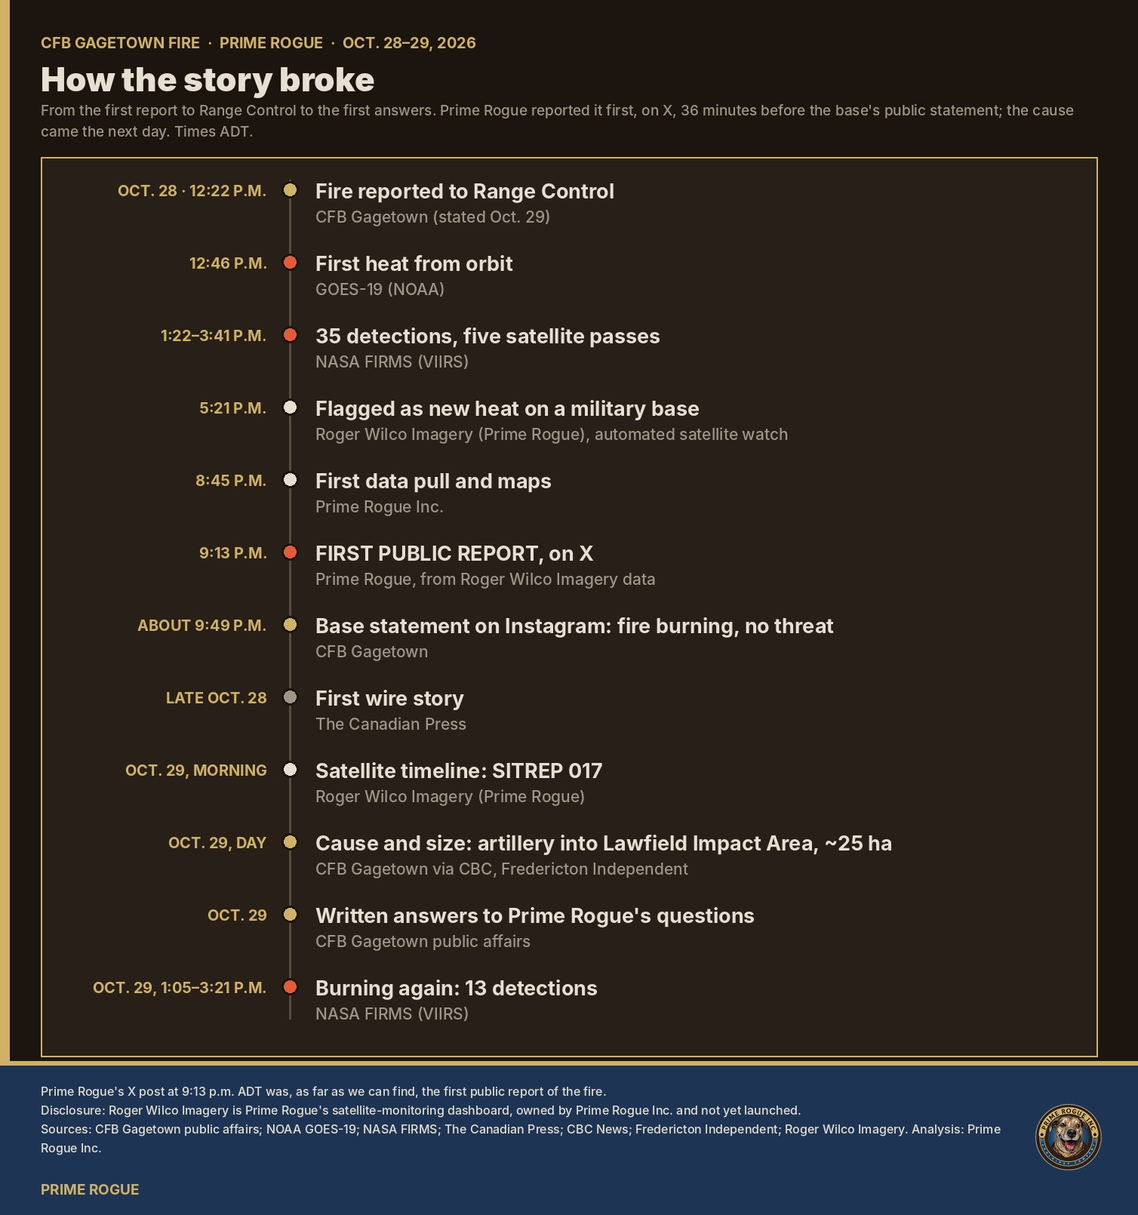
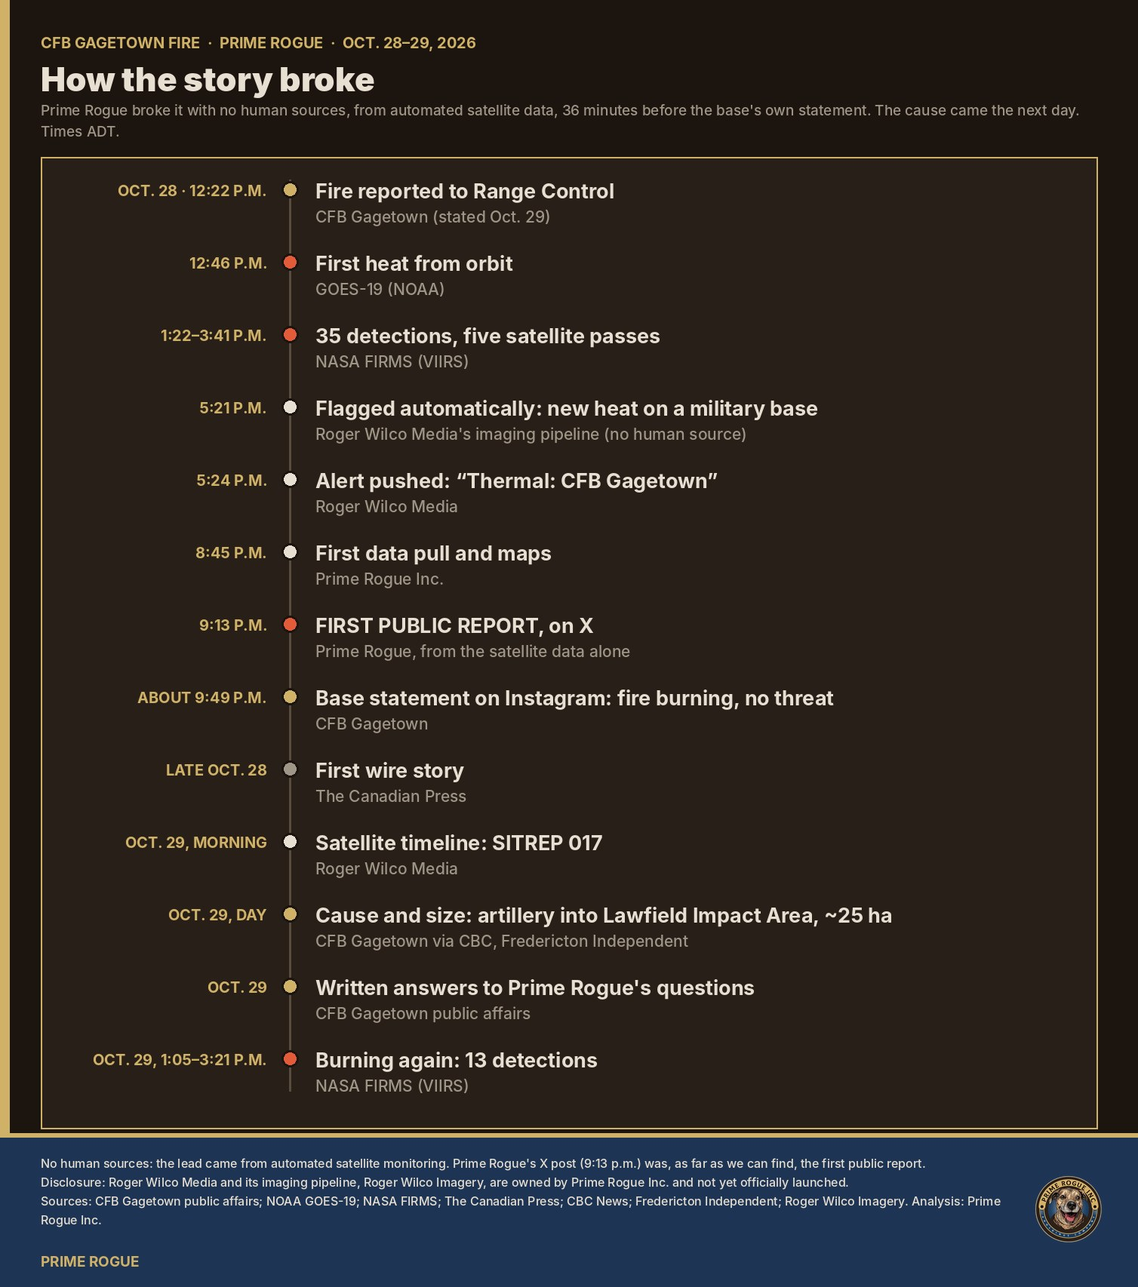
No human sources: automated pipeline flagged at 5:21 and pushed the alert at 5:24 p.m.; cite Roger Wilco Media (not officially launched, generating leads); graphics, tweets, HTML updated
Claude-Session: https://claude.ai/code/session_01Bh8AJVAeFD1nxJnnjXDLsH

Changed region(s): [[0.0, 0.0311, 1.0, 0.9938], [0.8103, 0.9317, 0.8415, 0.9627]]

diff --git a/article/cfb-gagetown-fire-artillery-lawfield-impact-area.html b/article/cfb-gagetown-fire-artillery-lawfield-impact-area.html
@@ -2,7 +2,10 @@
 <p><em>By Kevin J.S. Duska Jr. · Prime Rogue Inc. · Oct. 30, 2026</em></p>
 <p><strong>A fire started by artillery shooting into the Lawfield Impact Area burned through part of the CFB Gagetown training area in New Brunswick on Oct. 28 and was still burning the next afternoon. The base says it was reported to Range Control at 12:22 p.m. ADT, during a Royal Canadian Artillery School course firing the 105 mm LG1 howitzer, under a Moderate fire-danger rating. No one was hurt. Public satellite data shows how it unfolded, hour by hour.</strong></p>
 <p>It came eleven days after the fire at CFB Wainwright, Alta., where four soldiers died and 39 were injured on Oct. 17.</p>
-<p>Prime Rogue <a href="https://x.com/KevinDuska/status/2115597849425793397">first reported the fire on X</a> at 9:13 p.m. ADT on Oct. 28. That was 36 minutes before the base's public statement, using data from Roger Wilco Imagery, the satellite-monitoring dashboard Prime Rogue is building.</p>
+<p><strong>Prime Rogue broke the story without a single human source.</strong> We <a href="https://x.com/KevinDuska/status/2115597849425793397">first reported the fire on X</a> at 9:13 p.m. ADT on Oct. 28. That was 36 minutes before the base's own statement, and ahead of the first wire story.
+- <strong>The tip:</strong> none. The lead came from automated satellite monitoring by <a href="https://rogerwilcomedia.online/">Roger Wilco Media</a>, the open-source intelligence service Prime Rogue owns.
+- <strong>The pipeline:</strong> its imaging system, Roger Wilco Imagery, flagged the fire at 5:21 p.m. as new heat on a military base, and pushed an alert at 5:24 p.m. That was 4 hours 25 minutes before the base said anything.
+- <strong>The status:</strong> Roger Wilco Media hasn't officially launched. It's already generating leads like this one.</p>
 <!-- wp:image {"sizeSlug":"full","linkDestination":"media"} -->
 <figure class="wp-block-image size-full"><img src="/wp-content/uploads/2026/10/01-cfb-gagetown-fire-region.jpg" alt="Satellite map of the lower Saint John River valley showing Fredericton, Oromocto and Gagetown village, with the Oct. 28, 2026 fire marked in the CFB Gagetown training area"/><figcaption class="wp-element-caption">A fire in the CFB Gagetown training area</figcaption></figure>
 <!-- /wp:image -->
@@ -123,11 +126,12 @@
 <li><strong>12:22 p.m., Oct. 28:</strong> fire reported to Range Control, per the base.</li>
 <li><strong>12:46 p.m.:</strong> first heat from orbit (GOES-19).</li>
 <li><strong>1:22 p.m.:</strong> first NASA FIRMS (VIIRS) detections.</li>
-<li><strong>5:21 p.m.:</strong> Roger Wilco Imagery, the open-source satellite-monitoring dashboard Prime Rogue owns and is building (not yet launched), flagged the fire automatically as new heat on a military base.</li>
-<li><strong>9:13 p.m.: first public report.</strong> Prime Rogue <a href="https://x.com/KevinDuska/status/2115597849425793397">posted the fire on X</a>, from Roger Wilco Imagery's satellite data. As far as we can find, that was the first public report of the fire.</li>
+<li><strong>5:21 p.m.:</strong> Roger Wilco Media's automated imaging pipeline (Roger Wilco Imagery) flagged the fire as new heat on a military base. No person tipped it; the software did.</li>
+<li><strong>5:24 p.m.:</strong> Roger Wilco Media pushed the alert: "Thermal: 5th Canadian Division Support Base Gagetown."</li>
+<li><strong>9:13 p.m.: first public report.</strong> Prime Rogue <a href="https://x.com/KevinDuska/status/2115597849425793397">posted the fire on X</a> from the satellite data alone. As far as we can find, that was the first public report of the fire, 36 minutes before the base's statement.</li>
 <li><strong>About 9:49 p.m.:</strong> CFB Gagetown posted a statement on Instagram. It said a wildfire was burning in the northeastern sector of the training area, monitored by Wildland Fire Management Services, with no threat to nearby communities, and that training nearby was suspended.</li>
 <li><strong>Late Oct. 28:</strong> <a href="https://www.ctvnews.ca/atlantic/new-brunswick/article/fire-at-new-brunswick-military-base-not-threat-to-public-defence-officials/">The Canadian Press</a> reported the fire, citing defence officials who said it was no threat to the public.</li>
-<li><strong>Morning of Oct. 29:</strong> Roger Wilco Imagery's situation report (<a href="https://rogerwilcomedia.online/report/RWI-SITREP-017.html">SITREP 017</a>) laid out the satellite timeline: GOES-19's first heat, the five passes, the peak and the spread. It flagged that the cause had not been given.</li>
+<li><strong>Morning of Oct. 29:</strong> Roger Wilco Media's situation report (<a href="https://rogerwilcomedia.online/report/RWI-SITREP-017.html">SITREP 017</a>) laid out the satellite timeline: GOES-19's first heat, the five passes, the peak and the spread. It flagged that the cause had not been given.</li>
 <li><strong>Oct. 29, during the day:</strong> the <a href="https://ftonindependent.substack.com/p/wildfire-burning-at-base-gagetown">Fredericton Independent</a> reported the base's statement. The base's afternoon update to reporters gave the cause and the 25-hectare figure (<a href="https://www.cbc.ca/news/canada/new-brunswick/wildfire-base-gagetown-9.7401802">CBC News</a>; <a href="https://ftonindependent.substack.com/p/base-gagetown-wildfire-still-active">Fredericton Independent</a>). Roger Wilco Imagery's <a href="https://rogerwilcomedia.online/report/RWI-SITREP-018.html">SITREP 018</a> followed that night with the second day's detections.</li>
 </ul>
 <p>Reports disagree on the fire's status on Oct. 29. The Canadian Press described it as under control. The base's own answers say it "remains active."</p>
@@ -137,7 +141,7 @@
 <!-- /wp:image -->
 
 <p>Wainwright still hangs over every range fire.
-- The Oct. 17 fire there started on an automatic grenade launcher range, and a wind shift drove it onto soldiers on a nearby range. Roger Wilco Imagery's satellite analysis put the first heat about 70 minutes before the ignition time officials first gave.
+- The Oct. 17 fire there started on an automatic grenade launcher range, and a wind shift drove it onto soldiers on a nearby range. Roger Wilco Media's satellite analysis put the first heat about 70 minutes before the ignition time officials first gave.
 - At Gagetown the picture is different: the fire was in an impact area, no one was in its path, and the base says it was seen and reported almost at once.</p>
 <p>But some of the same questions apply:
 - why live artillery was firing into dry autumn ground under a Moderate rating;
@@ -147,11 +151,11 @@
 <h2>Sources and method</h2>
 <ul>
 <li><strong>Fire detections:</strong> NASA FIRMS (VIIRS on NOAA-21, NOAA-20 and Suomi NPP), near-real-time, Oct. 27–30.</li>
-<li><strong>GOES-19:</strong> the NOAA ABI fire product, via NOAA Open Data on AWS. The five-minute series was assembled by Roger Wilco Imagery.</li>
+<li><strong>GOES-19:</strong> the NOAA ABI fire product, via NOAA Open Data on AWS. The five-minute series was assembled by Roger Wilco Media.</li>
 <li><strong>Imagery:</strong> Sentinel-2, Oct. 27 (contains modified Copernicus Sentinel data [2026]).</li>
 <li><strong>Terrain:</strong> Copernicus DEM GLO-30.</li>
 <li><strong>Fire radiative power</strong> measures heat output, not area burned.</li>
 <li><strong>Raw data and code:</strong> every number above can be checked against the unaltered FIRMS responses, the merged tables and the scripts in Prime Rogue's public repository, <a href="https://github.com/primerogueinc/DND-BASE-FIRES-Beginning-10-28-2026">DND-BASE-FIRES-Beginning-10-28-2026</a>.</li>
-<li><strong>Disclosure:</strong> Roger Wilco Imagery is owned by Prime Rogue Inc. It hasn't launched yet; a preview is at <a href="https://rogerwilcomedia.online/">rogerwilcomedia.online</a>.</li>
+<li><strong>Disclosure:</strong> Roger Wilco Media and its imaging pipeline, Roger Wilco Imagery, are owned by Prime Rogue Inc. They haven't officially launched; a preview is at <a href="https://rogerwilcomedia.online/">rogerwilcomedia.online</a>.</li>
 </ul>
 <p><em>Prime Rogue Inc. is a member of the Canadian Association of Journalists. Corrections: kevin@primerogueinc.com.</em></p>

diff --git a/scripts/build_article_cards_gagetown.py b/scripts/build_article_cards_gagetown.py
@@ -43,7 +43,7 @@ def social():
     d.text((64, 222), "Orbit saw it", font=H(76), fill=GOLD)
     d.text((64, 314), "24 minutes later.", font=H(76), fill=GOLD)
     y = 440
-    for line in g.wrap("Reported to Range Control at 12:22 p.m. on Oct. 28. GOES-19's first heat: 12:46. Still burning the next afternoon.", M(30), 690):
+    for line in g.wrap("No human sources: automated satellite data flagged it, and we reported it 36 minutes before the base did. Still burning the next afternoon.", M(30), 690):
         d.text((64, y), line, font=M(30), fill=MUTED); y += 42
     # mini chart: GOES-19 fire power, 12:00–4:00 p.m.
     goes = g.GOES[g.GOES.satellite.str.startswith("GOES-19") & (g.GOES["product"] == "ABI-L2-FDCC") & (g.GOES.status == "ok")].copy()
@@ -137,7 +137,7 @@ def first_hours():
             "VIIRS passed five times that afternoon. Grey shading: share of the GOES box coded cloud. Times ADT, Oct. 28.",
             ["GOES's first flag (12:46) was a low-probability code; its first measured fire power came at 12:50–12:51 p.m. Gaps between bars are mostly cloud, not the fire stopping.",
              "Base times: CFB Gagetown public affairs, Oct. 29."],
-            "Fire detections: NOAA GOES-19 ABI fire product, CONUS scans (NOAA Open Data on AWS; series by Roger Wilco Imagery) and NASA FIRMS (VIIRS), Oct. 28, 2026. "
+            "Fire detections: NOAA GOES-19 ABI fire product, CONUS scans (NOAA Open Data on AWS; series by Roger Wilco Media) and NASA FIRMS (VIIRS), Oct. 28, 2026. "
             "Analysis: Prime Rogue Inc.", "13-cfb-gagetown-fire-first-hours")
 
 
@@ -146,12 +146,13 @@ def story():
     ev = [("OCT. 28 · 12:22 P.M.", "Fire reported to Range Control", "CFB Gagetown (stated Oct. 29)", GOLD),
           ("12:46 P.M.", "First heat from orbit", "GOES-19 (NOAA)", RED),
           ("1:22–3:41 P.M.", "35 detections, five satellite passes", "NASA FIRMS (VIIRS)", RED),
-          ("5:21 P.M.", "Flagged as new heat on a military base", "Roger Wilco Imagery (Prime Rogue), automated satellite watch", CREAM),
+          ("5:21 P.M.", "Flagged automatically: new heat on a military base", "Roger Wilco Media's imaging pipeline (no human source)", CREAM),
+          ("5:24 P.M.", "Alert pushed: \u201cThermal: CFB Gagetown\u201d", "Roger Wilco Media", CREAM),
           ("8:45 P.M.", "First data pull and maps", "Prime Rogue Inc.", CREAM),
-          ("9:13 P.M.", "FIRST PUBLIC REPORT, on X", "Prime Rogue, from Roger Wilco Imagery data", RED),
+          ("9:13 P.M.", "FIRST PUBLIC REPORT, on X", "Prime Rogue, from the satellite data alone", RED),
           ("ABOUT 9:49 P.M.", "Base statement on Instagram: fire burning, no threat", "CFB Gagetown", GOLD),
           ("LATE OCT. 28", "First wire story", "The Canadian Press", MUTED),
-          ("OCT. 29, MORNING", "Satellite timeline: SITREP 017", "Roger Wilco Imagery (Prime Rogue)", CREAM),
+          ("OCT. 29, MORNING", "Satellite timeline: SITREP 017", "Roger Wilco Media", CREAM),
           ("OCT. 29, DAY", "Cause and size: artillery into Lawfield Impact Area, ~25 ha", "CFB Gagetown via CBC, Fredericton Independent", GOLD),
           ("OCT. 29", "Written answers to Prime Rogue's questions", "CFB Gagetown public affairs", GOLD),
           ("OCT. 29, 1:05–3:21 P.M.", "Burning again: 13 detections", "NASA FIRMS (VIIRS)", RED)]
@@ -165,10 +166,10 @@ def story():
         d.ellipse([xL - 11, y + 2, xL + 11, y + 24], fill=col, outline=INK, width=3)
         d.text((xL + 34, y - 2), what, font=B(27), fill=CREAM)
         d.text((xL + 34, y + 36), who, font=M(21), fill=MUTED)
-    g.panel(im, "How the story broke", "From the first report to Range Control to the first answers. Prime Rogue reported it first, on X, 36 minutes before "
-            "the base's public statement; the cause came the next day. Times ADT.",
-            ["Prime Rogue's X post at 9:13 p.m. ADT was, as far as we can find, the first public report of the fire.",
-             "Disclosure: Roger Wilco Imagery is Prime Rogue's satellite-monitoring dashboard, owned by Prime Rogue Inc. and not yet launched."],
+    g.panel(im, "How the story broke", "Prime Rogue broke it with no human sources, from automated satellite data, 36 minutes before the base's own statement. "
+            "The cause came the next day. Times ADT.",
+            ["No human sources: the lead came from automated satellite monitoring. Prime Rogue's X post (9:13 p.m.) was, as far as we can find, the first public report.",
+             "Disclosure: Roger Wilco Media and its imaging pipeline, Roger Wilco Imagery, are owned by Prime Rogue Inc. and not yet officially launched."],
             "Sources: CFB Gagetown public affairs; NOAA GOES-19; NASA FIRMS; The Canadian Press; CBC News; Fredericton Independent; Roger Wilco Imagery. "
             "Analysis: Prime Rogue Inc.", "14-cfb-gagetown-fire-how-the-story-broke")
 
@@ -196,7 +197,7 @@ def compare():
                 d.text((x, y - 2 + 32 * j), l, font=M(25), fill=CREAM)
     g.panel(im, "Two range fires, eleven days apart", "Both started during live-fire training. At Wainwright, wind drove the fire onto soldiers; at Gagetown, "
             "it stayed in the impact area and no one was hurt.",
-            ["Wainwright: DND and published reporting; satellite figures from Roger Wilco Imagery's analysis (RWI-HC-001). Gagetown: CFB Gagetown public affairs, Oct. 29.",
+            ["Wainwright: DND and published reporting; satellite figures from Roger Wilco Media's analysis (RWI-HC-001). Gagetown: CFB Gagetown public affairs, Oct. 29.",
              "Areas are not comparable estimates: Wainwright from imagery, Gagetown the base's figure."],
             "Prime Rogue Inc.", "15-cfb-gagetown-wainwright-compared")
 

diff --git a/scripts/build_article_graphics_gagetown.py b/scripts/build_article_graphics_gagetown.py
@@ -135,7 +135,7 @@ def timeline():
           "GOES-19 watches the area every five minutes; three VIIRS satellites pass a few times a day. The base's reported times are marked. Times ADT.",
           ["GOES pixels are about 3 km across here and the area was mostly cloudy on Oct. 28, so GOES saw the fire through gaps; VIIRS pixels are about 375 m.",
            "Bars and diamonds measure heat output, not area burned. Base times: CFB Gagetown public affairs, Oct. 29."],
-          "Fire detections: NOAA GOES-19 ABI fire product (via NOAA Open Data on AWS; series by Roger Wilco Imagery) and NASA FIRMS (VIIRS NOAA-21, NOAA-20, "
+          "Fire detections: NOAA GOES-19 ABI fire product (via NOAA Open Data on AWS; series by Roger Wilco Media) and NASA FIRMS (VIIRS NOAA-21, NOAA-20, "
           "Suomi NPP), Oct. 28–29, 2026. Analysis: Prime Rogue Inc.", "09-cfb-gagetown-fire-timeline")
 
 

diff --git a/article/cfb-gagetown-fire-artillery-lawfield-impact-area.md b/article/cfb-gagetown-fire-artillery-lawfield-impact-area.md
@@ -25,7 +25,7 @@ rank_math:
     location: "CFB Gagetown Range and Training Area, New Brunswick, Canada (45.749 N, 66.260 W)"
   open_graph:
     title: "Artillery set CFB Gagetown's training area burning. Satellites watched for two days."
-    description: "First reported by Prime Rogue. A 105 mm howitzer course, a Moderate fire-danger rating, 25 hectares burned: the full sequence, from orbit and from the base."
+    description: "Broken by Prime Rogue from automated satellite data, with no human sources. A 105 mm howitzer course, a Moderate rating, 25 ha burned: the full sequence."
     image: cfb-gagetown/2026-10-29/maps/branded/11-cfb-gagetown-fire-social-card.jpg
   twitter:
     card: summary_large_image
@@ -57,7 +57,10 @@ image_alts:
 
 It came eleven days after the fire at CFB Wainwright, Alta., where four soldiers died and 39 were injured on Oct. 17.
 
-Prime Rogue [first reported the fire on X](https://x.com/KevinDuska/status/2115597849425793397) at 9:13 p.m. ADT on Oct. 28. That was 36 minutes before the base's public statement, using data from Roger Wilco Imagery, the satellite-monitoring dashboard Prime Rogue is building.
+**Prime Rogue broke the story without a single human source.** We [first reported the fire on X](https://x.com/KevinDuska/status/2115597849425793397) at 9:13 p.m. ADT on Oct. 28. That was 36 minutes before the base's own statement, and ahead of the first wire story.
+- **The tip:** none. The lead came from automated satellite monitoring by [Roger Wilco Media](https://rogerwilcomedia.online/), the open-source intelligence service Prime Rogue owns.
+- **The pipeline:** its imaging system, Roger Wilco Imagery, flagged the fire at 5:21 p.m. as new heat on a military base, and pushed an alert at 5:24 p.m. That was 4 hours 25 minutes before the base said anything.
+- **The status:** Roger Wilco Media hasn't officially launched. It's already generating leads like this one.
 
 ![A fire in the CFB Gagetown training area](../cfb-gagetown/2026-10-28/maps/branded/01-cfb-gagetown-fire-region.jpg)
 
@@ -135,11 +138,12 @@ In short-wave infrared, the clearing shows as dry, sparsely vegetated ground, an
 - **12:22 p.m., Oct. 28:** fire reported to Range Control, per the base.
 - **12:46 p.m.:** first heat from orbit (GOES-19).
 - **1:22 p.m.:** first NASA FIRMS (VIIRS) detections.
-- **5:21 p.m.:** Roger Wilco Imagery, the open-source satellite-monitoring dashboard Prime Rogue owns and is building (not yet launched), flagged the fire automatically as new heat on a military base.
-- **9:13 p.m.: first public report.** Prime Rogue [posted the fire on X](https://x.com/KevinDuska/status/2115597849425793397), from Roger Wilco Imagery's satellite data. As far as we can find, that was the first public report of the fire.
+- **5:21 p.m.:** Roger Wilco Media's automated imaging pipeline (Roger Wilco Imagery) flagged the fire as new heat on a military base. No person tipped it; the software did.
+- **5:24 p.m.:** Roger Wilco Media pushed the alert: "Thermal: 5th Canadian Division Support Base Gagetown."
+- **9:13 p.m.: first public report.** Prime Rogue [posted the fire on X](https://x.com/KevinDuska/status/2115597849425793397) from the satellite data alone. As far as we can find, that was the first public report of the fire, 36 minutes before the base's statement.
 - **About 9:49 p.m.:** CFB Gagetown posted a statement on Instagram. It said a wildfire was burning in the northeastern sector of the training area, monitored by Wildland Fire Management Services, with no threat to nearby communities, and that training nearby was suspended.
 - **Late Oct. 28:** [The Canadian Press](https://www.ctvnews.ca/atlantic/new-brunswick/article/fire-at-new-brunswick-military-base-not-threat-to-public-defence-officials/) reported the fire, citing defence officials who said it was no threat to the public.
-- **Morning of Oct. 29:** Roger Wilco Imagery's situation report ([SITREP 017](https://rogerwilcomedia.online/report/RWI-SITREP-017.html)) laid out the satellite timeline: GOES-19's first heat, the five passes, the peak and the spread. It flagged that the cause had not been given.
+- **Morning of Oct. 29:** Roger Wilco Media's situation report ([SITREP 017](https://rogerwilcomedia.online/report/RWI-SITREP-017.html)) laid out the satellite timeline: GOES-19's first heat, the five passes, the peak and the spread. It flagged that the cause had not been given.
 - **Oct. 29, during the day:** the [Fredericton Independent](https://ftonindependent.substack.com/p/wildfire-burning-at-base-gagetown) reported the base's statement. The base's afternoon update to reporters gave the cause and the 25-hectare figure ([CBC News](https://www.cbc.ca/news/canada/new-brunswick/wildfire-base-gagetown-9.7401802); [Fredericton Independent](https://ftonindependent.substack.com/p/base-gagetown-wildfire-still-active)). Roger Wilco Imagery's [SITREP 018](https://rogerwilcomedia.online/report/RWI-SITREP-018.html) followed that night with the second day's detections.
 
 Reports disagree on the fire's status on Oct. 29. The Canadian Press described it as under control. The base's own answers say it "remains active."
@@ -149,7 +153,7 @@ Reports disagree on the fire's status on Oct. 29. The Canadian Press described i
 ![Two range fires, eleven days apart](../cfb-gagetown/2026-10-29/maps/branded/15-cfb-gagetown-wainwright-compared.jpg)
 
 Wainwright still hangs over every range fire.
-- The Oct. 17 fire there started on an automatic grenade launcher range, and a wind shift drove it onto soldiers on a nearby range. Roger Wilco Imagery's satellite analysis put the first heat about 70 minutes before the ignition time officials first gave.
+- The Oct. 17 fire there started on an automatic grenade launcher range, and a wind shift drove it onto soldiers on a nearby range. Roger Wilco Media's satellite analysis put the first heat about 70 minutes before the ignition time officials first gave.
 - At Gagetown the picture is different: the fire was in an impact area, no one was in its path, and the base says it was seen and reported almost at once.
 
 But some of the same questions apply:
@@ -162,11 +166,11 @@ The base answered the first in general terms and referred the last to "the appro
 ## Sources and method
 
 - **Fire detections:** NASA FIRMS (VIIRS on NOAA-21, NOAA-20 and Suomi NPP), near-real-time, Oct. 27–30.
-- **GOES-19:** the NOAA ABI fire product, via NOAA Open Data on AWS. The five-minute series was assembled by Roger Wilco Imagery.
+- **GOES-19:** the NOAA ABI fire product, via NOAA Open Data on AWS. The five-minute series was assembled by Roger Wilco Media.
 - **Imagery:** Sentinel-2, Oct. 27 (contains modified Copernicus Sentinel data [2026]).
 - **Terrain:** Copernicus DEM GLO-30.
 - **Fire radiative power** measures heat output, not area burned.
 - **Raw data and code:** every number above can be checked against the unaltered FIRMS responses, the merged tables and the scripts in Prime Rogue's public repository, [DND-BASE-FIRES-Beginning-10-28-2026](https://github.com/primerogueinc/DND-BASE-FIRES-Beginning-10-28-2026).
-- **Disclosure:** Roger Wilco Imagery is owned by Prime Rogue Inc. It hasn't launched yet; a preview is at [rogerwilcomedia.online](https://rogerwilcomedia.online/).
+- **Disclosure:** Roger Wilco Media and its imaging pipeline, Roger Wilco Imagery, are owned by Prime Rogue Inc. They haven't officially launched; a preview is at [rogerwilcomedia.online](https://rogerwilcomedia.online/).
 
 *Prime Rogue Inc. is a member of the Canadian Association of Journalists. Corrections: kevin@primerogueinc.com.*

diff --git a/article/graphics-captions-tweets.md b/article/graphics-captions-tweets.md
@@ -7,7 +7,7 @@ Every tweet is under 280 characters including a 23-character link. Images are in
 
 | # | File | Where it goes | Caption |
 |---|---|---|---|
-| 1 | `11-cfb-gagetown-fire-social-card.jpg` | **Featured image** and Open Graph / X card; not in the body | Artillery started the fire; GOES-19 saw its first heat 24 minutes after the reported time. |
+| 1 | `11-cfb-gagetown-fire-social-card.jpg` | **Featured image** and Open Graph / X card; not in the body | Broken from automated satellite data, with no human sources: Prime Rogue reported the fire 36 minutes before the base did. |
 | 2 | `01-cfb-gagetown-fire-region.jpg` | After the lede (the Wainwright line), before "What the base says happened" | The fire was in the CFB Gagetown training area, about 20 km south-east of Oromocto and 9–10 km west-south-west of Gagetown village. |
 | 3 | `12-cfb-gagetown-fire-base-answers.jpg` | End of "What the base says happened", before the Wildland Fire Management Services point | What CFB Gagetown told Prime Rogue in writing on Oct. 29. |
 | 4 | `09-cfb-gagetown-fire-timeline.jpg` | Top of "What the satellites saw" | Two days of fire power over the training area, from GOES-19 every five minutes and VIIRS on each pass, with the base's times marked. |
@@ -52,7 +52,7 @@ Every tweet is under 280 characters including a 23-character link. Images are in
    > Two days of fire power over CFB Gagetown, from GOES-19 every five minutes and VIIRS on each pass. Peak 112 MW on Oct. 28 afternoon, low heat overnight, a second, smaller run on Oct. 29. {link}
 
 10. **14 how the story broke**
-    > How the CFB Gagetown fire story broke: satellites had it from 12:46 p.m., Roger Wilco Imagery flagged it at 5:21, we posted it at 9:13, the base at about 9:49. The cause came the next day. {link}
+    > How the CFB Gagetown fire story broke: satellites had it from 12:46 p.m., Roger Wilco Media's automated pipeline pushed an alert at 5:24, we posted at 9:13, the base at about 9:49. No human sources. {link}
 
 11. **15 Wainwright compared**
     > Two range fires, eleven days apart. Wainwright, Oct. 17: wind drove the fire onto soldiers; four died. Gagetown, Oct. 28: it stayed in the impact area; no one was hurt. Asked what changed in between, the base referred us to "the appropriate authorities." {link}
